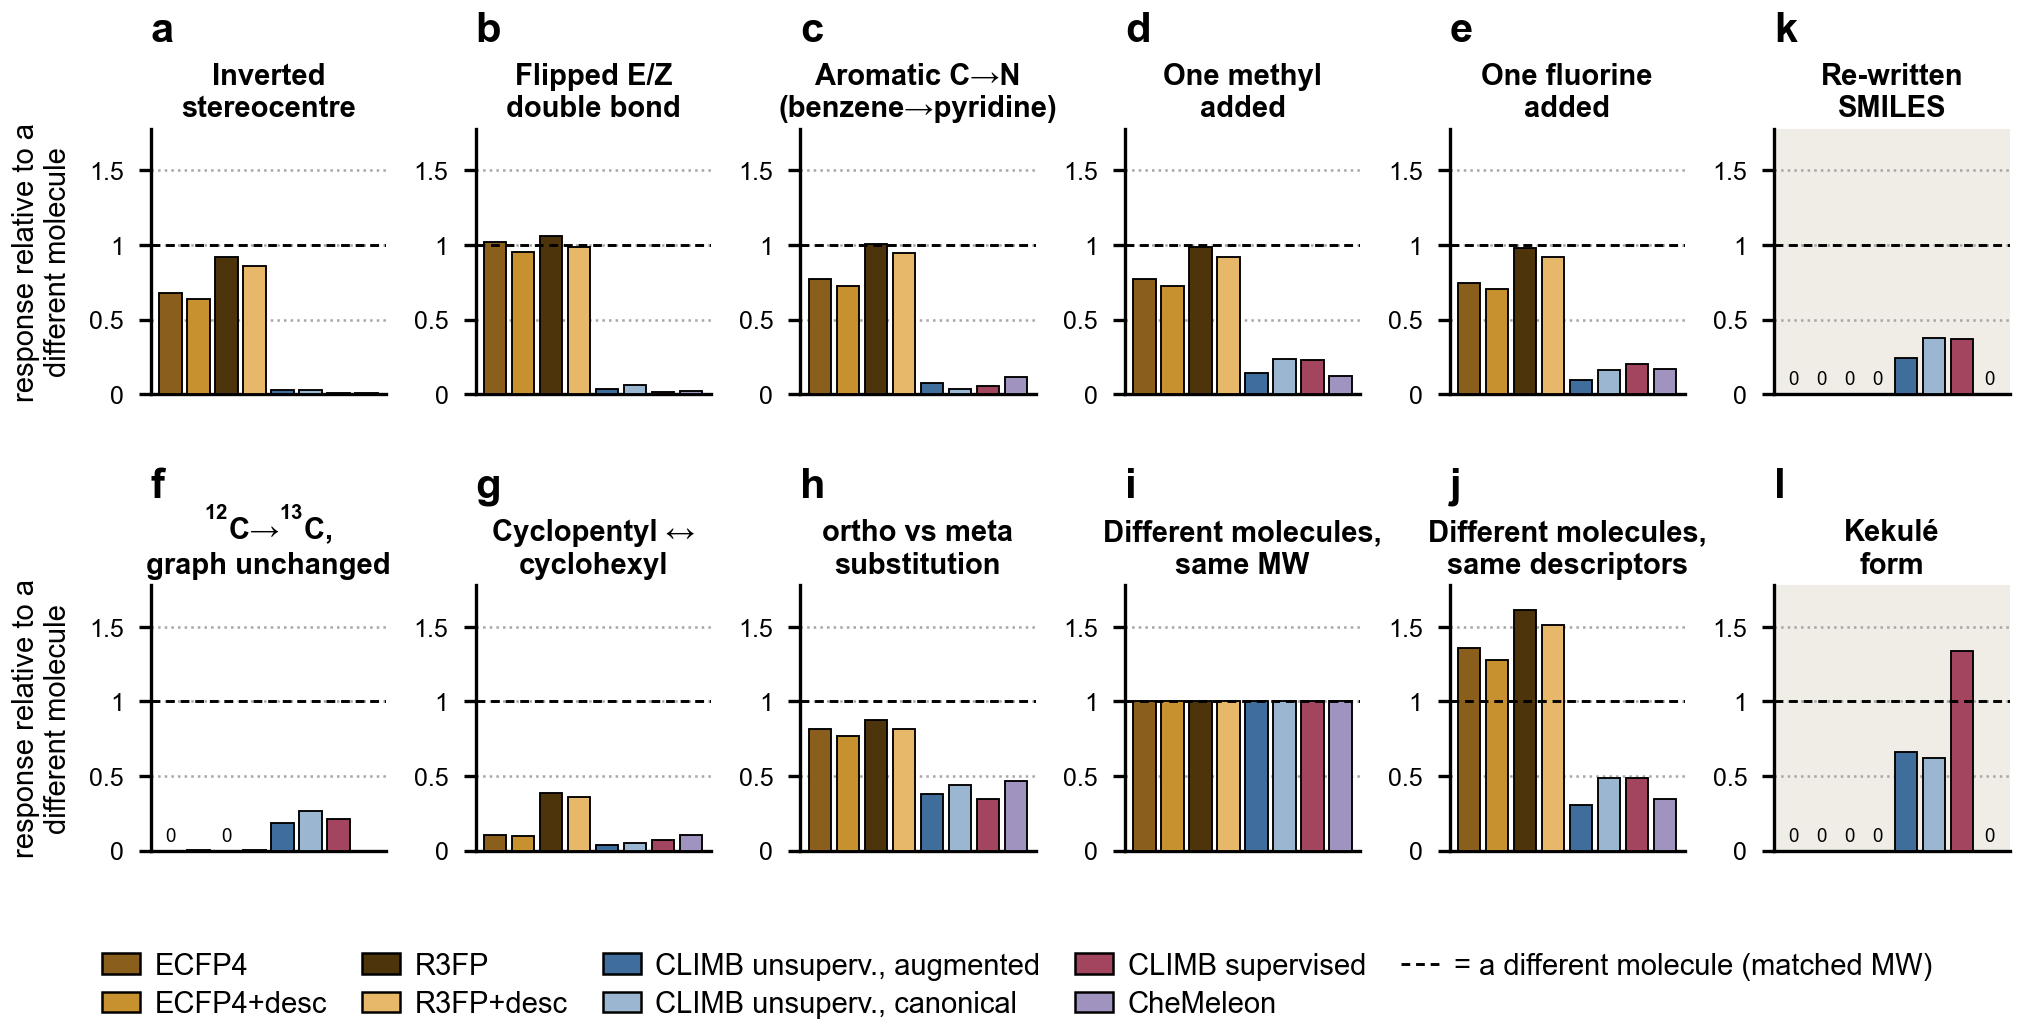
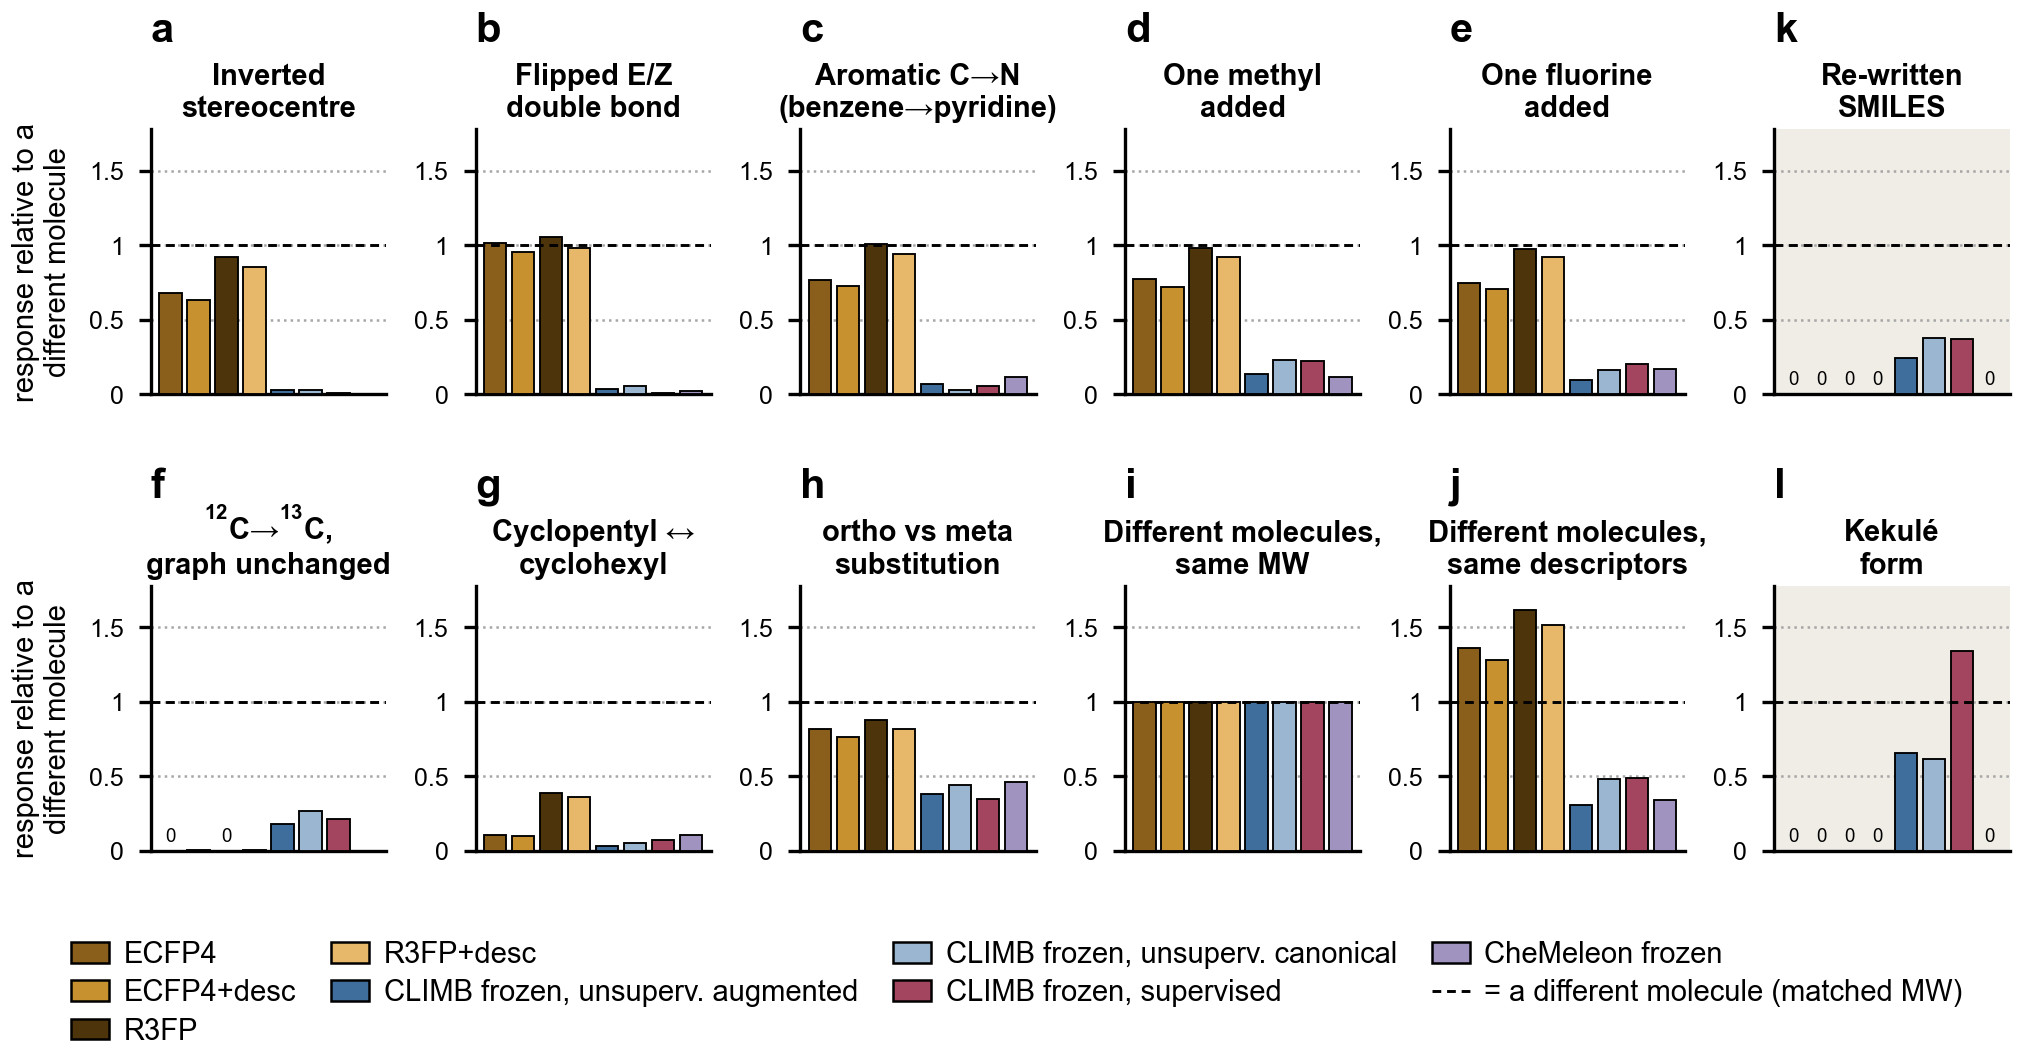
fig_G: label the frozen arms as frozen; legend to 4 columns to hold the page width

diff --git a/figures/fig_G.py b/figures/fig_G.py
@@ -89,10 +89,10 @@ SERIES = [("ECFP",      ARMS["ecfp"]["color"],             "ECFP4"),
           ("ECFP+d",    ARMS["ecfp_desc"]["color"],        "ECFP4+desc"),
           ("r3fp",      ARMS["r3fp"]["color"],             "R3FP"),
           ("r3fp+d",    ARMS["r3fp_desc"]["color"],        "R3FP+desc"),
-          ("uns-ENUM",  SHADES["unsup"][0],                "CLIMB unsuperv., augmented"),
-          ("uns-CANON", SHADES["unsup"][2],                "CLIMB unsuperv., canonical"),
-          ("sup",       ARMS["sup_dense"]["color"],        "CLIMB supervised"),
-          ("CheMel",    ARMS["chemeleon_frozen"]["color"], "CheMeleon")]
+          ("uns-ENUM",  SHADES["unsup"][0],                "CLIMB frozen, unsuperv. augmented"),
+          ("uns-CANON", SHADES["unsup"][2],                "CLIMB frozen, unsuperv. canonical"),
+          ("sup",       ARMS["sup_dense"]["color"],        "CLIMB frozen, supervised"),
+          ("CheMel",    ARMS["chemeleon_frozen"]["color"], "CheMeleon frozen")]
 
 # (class, mode, two-line panel title). The class blocks are drawn as separate figures.
 MODES = [("A", "stereo_flip",         "Inverted\nstereocentre"),
@@ -249,11 +249,15 @@ def main():
     # across gets both panels backwards. Keep that sentence in the caption if this figure is
     # ever re-cut.
 
-    # 2 rows x 5 columns for the 9 entries (8 arms + the reference line), user request. Checked
-    # against the canvas below rather than assumed -- a legend wider than the figure is what
-    # pushes savefig's tight bbox out and silently rescales the whole plate in LaTeX.
-    fig.legend(handles=_legend_handles(), loc="upper center", bbox_to_anchor=(0.500, 0.175),
-               ncol=5, fontsize=FS["legend"], handletextpad=0.5, columnspacing=1.2,
+    # 4 columns, not 5. The legend -- not the axes -- sets this plate's width: savefig("tight")
+    # grows the canvas to whatever hangs off it, so shrinking figsize does nothing here (tried:
+    # 0.985 x col2 rendered to exactly the same 2040px). Spelling "frozen" into four labels
+    # (user 2026-08-20) took the 5-column form to 6.80in against a 6.69in text block, and an
+    # over-wide plate is downscaled by LaTeX, shrinking its fonts relative to every other figure.
+    # 4 columns x 3 rows is narrower than 5 x 2 and costs one line of height, which this figure
+    # has to spare. Verified by measuring the rendered PNG, not by eye.
+    fig.legend(handles=_legend_handles(), loc="upper center", bbox_to_anchor=(0.500, 0.185),
+               ncol=4, fontsize=FS["legend"], handletextpad=0.5, columnspacing=1.2,
                labelspacing=0.35, borderpad=0.0, frameon=False)
     save(fig, "fig_G")
     plt.close(fig)
